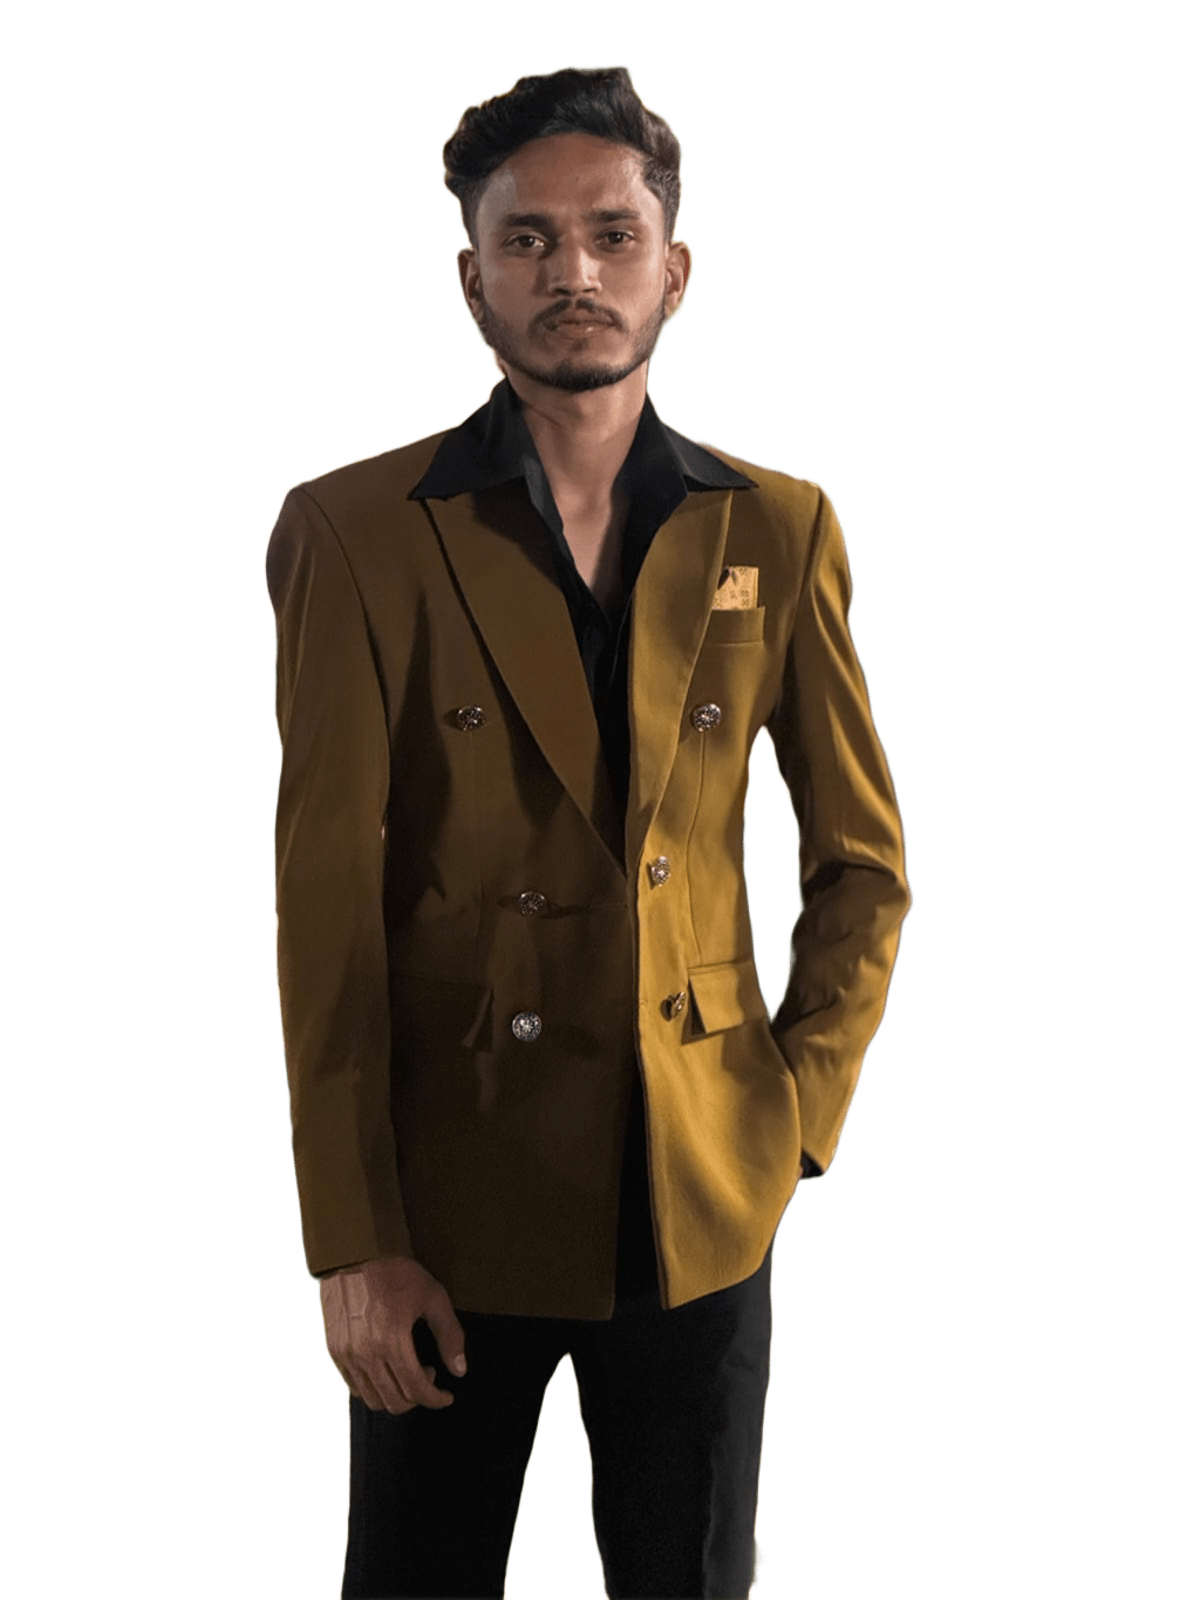
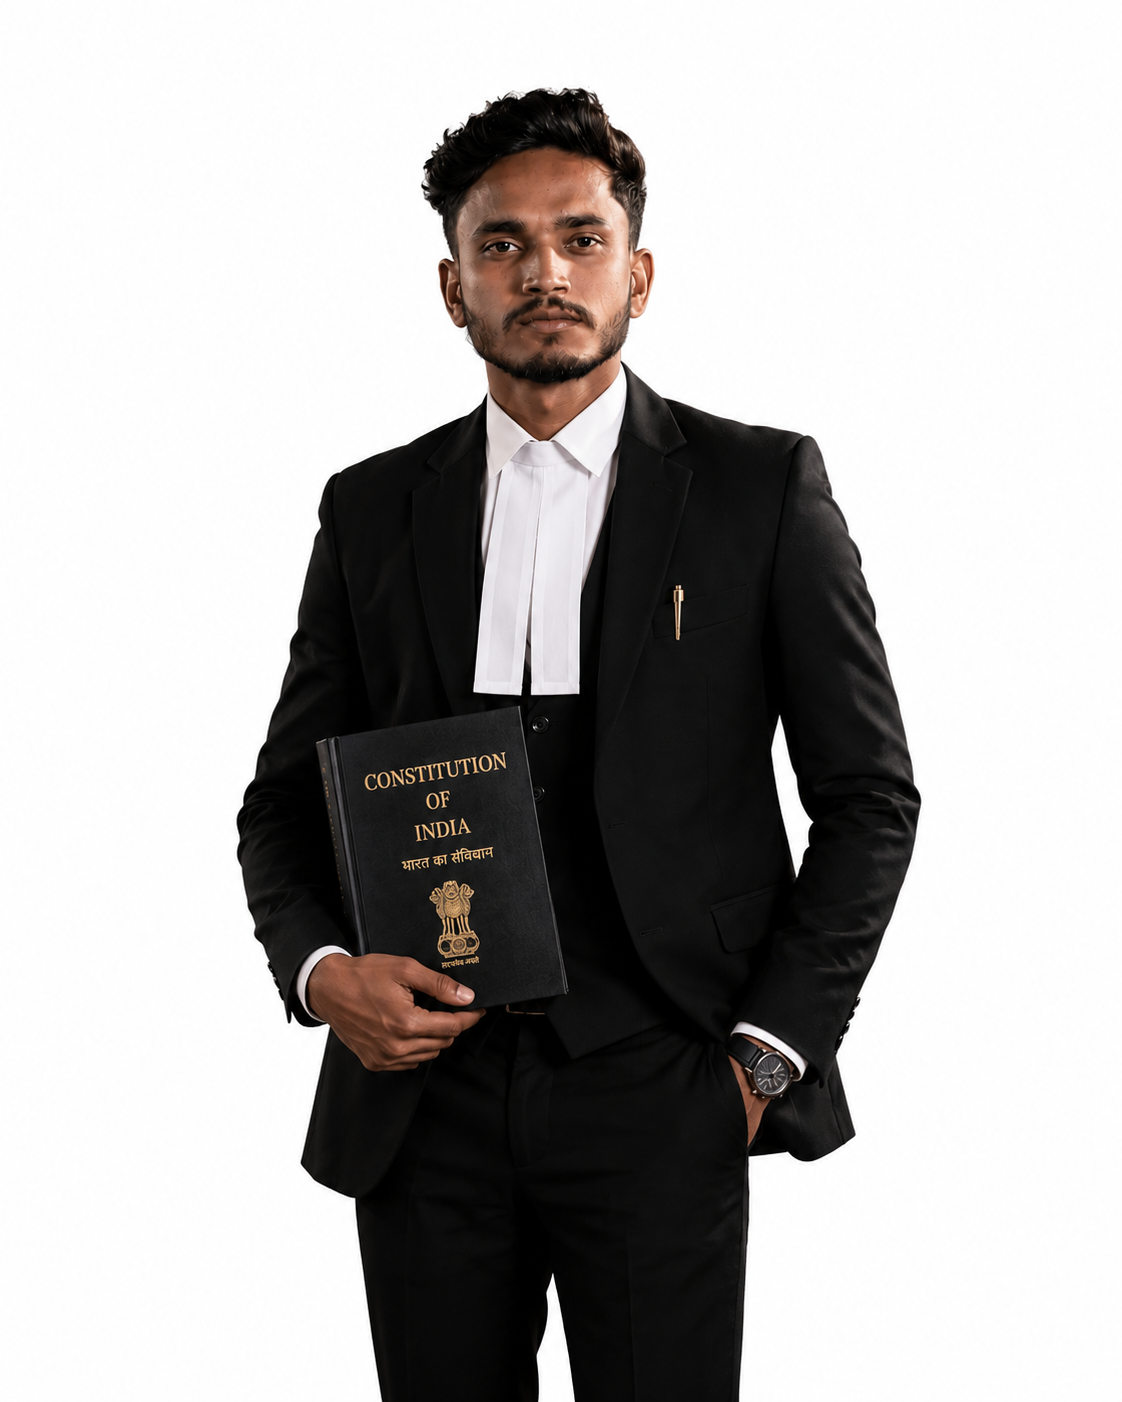
seo

diff --git a/seo/meta.html b/seo/meta.html
@@ -7,18 +7,18 @@
 <title>Deepak Bunkar | Advocate & Lawyer in Jaipur District Court & Rajasthan High Court</title>
 <meta name="description" content="Looking for a lawyer in Jaipur? Advocate Deepak Bunkar provides expert legal representation in Jaipur District Court & Rajasthan High Court. Criminal, Civil, Family & Corporate law. Consult now.">
 <meta name="robots" content="index, follow">
-<link rel="canonical" href="https://deepak-bunkar.vercel.app/">
+<link rel="canonical" href="https://deepak-law.vercel.app/">
 
 <!-- Open Graph / Facebook -->
 <meta property="og:type" content="website">
-<meta property="og:url" content="https://deepak-bunkar.vercel.app/">
+<meta property="og:url" content="https://deepak-law.vercel.app/">
 <meta property="og:title" content="Deepak Bunkar | Advocate & Lawyer in Jaipur District Court & Rajasthan High Court">
 <meta property="og:description" content="Looking for a lawyer in Jaipur? Advocate Deepak Bunkar provides expert legal representation in Jaipur District Court & Rajasthan High Court. Criminal, Civil, Family & Corporate law. Consult now.">
-<meta property="og:image" content="https://deepak-bunkar.vercel.app/assets/portrait.webp">
+<meta property="og:image" content="https://deepak-law.vercel.app/assets/portrait.webp">
 
 <!-- Twitter -->
 <meta property="twitter:card" content="summary_large_image">
-<meta property="twitter:url" content="https://deepak-bunkar.vercel.app/">
+<meta property="twitter:url" content="https://deepak-law.vercel.app/">
 <meta property="twitter:title" content="Deepak Bunkar | Advocate & Lawyer in Jaipur District Court & Rajasthan High Court">
 <meta property="twitter:description" content="Looking for a lawyer in Jaipur? Advocate Deepak Bunkar provides expert legal representation in Jaipur District Court & Rajasthan High Court. Criminal, Civil, Family & Corporate law. Consult now.">
-<meta property="twitter:image" content="https://deepak-bunkar.vercel.app/assets/portrait.webp">
+<meta property="twitter:image" content="https://deepak-law.vercel.app/assets/portrait.webp">

diff --git a/index.html b/index.html
@@ -7,14 +7,14 @@
   <title>Deepak Bunkar | Advocate & Lawyer — Jaipur District Court & Rajasthan High Court</title>
   <meta name="description" content="Advocate Deepak Bunkar provides expert legal representation with integrity, professionalism, and excellence in Jaipur District Court & Rajasthan High Court.">
   <meta name="robots" content="index, follow">
-  <link rel="canonical" href="https://deepak-bunkar.vercel.app/">
+  <link rel="canonical" href="https://deepak-law.vercel.app/">
 
   <!-- Open Graph -->
   <meta property="og:type" content="website">
-  <meta property="og:url" content="https://deepak-bunkar.vercel.app/">
+  <meta property="og:url" content="https://deepak-law.vercel.app/">
   <meta property="og:title" content="Deepak Bunkar | Advocate & Lawyer — Jaipur District Court & Rajasthan High Court">
   <meta property="og:description" content="Dedicated legal solutions with integrity, professionalism, and excellence. Advocating Justice. Defending Your Rights.">
-  <meta property="og:image" content="https://deepak-bunkar.vercel.app/assets/portrait.webp">
+  <meta property="og:image" content="https://deepak-law.vercel.app/assets/portrait.webp">
 
   <!-- Google Fonts -->
   <link rel="preconnect" href="https://fonts.googleapis.com">